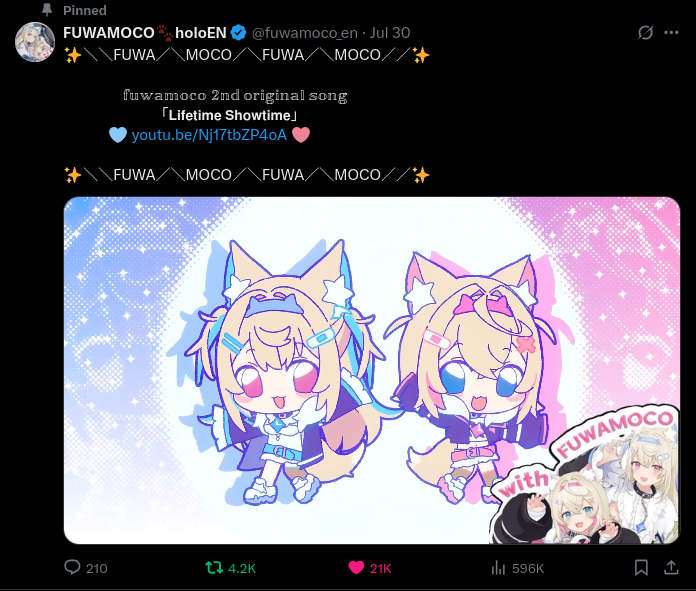
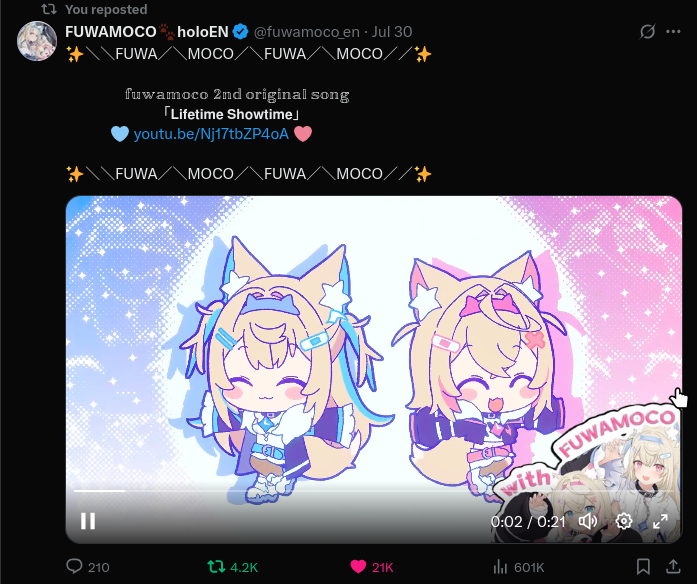
fix up and finish twitter support
- fixed overlay for images and videos on general tweets
- added overlay for the For You trending hero and images
- added overlay for profile banners
- X (formerly Twitter)

diff --git a/src/appliers/twitter.ts b/src/appliers/twitter.ts
@@ -2,13 +2,22 @@ import type { Settings } from "../config";
 import { appendImageWithStyles } from "../helpers";
 
 /**
- * Adds the With FUWAMOCO image to Twitter media.
+ * Adds the With FUWAMOCO image to Twitter/X media.
  * @description Currently wip, not perfect
  */
 export function addTwitter(settings: Partial<Settings["twitter"]>) {
   const imagesAndVideos = [
-    ...Array.from(document.querySelectorAll("img[src^='https://pbs.twimg.com/media']")), // images
-    ...Array.from(document.querySelectorAll("video[poster^='https://pbs.twimg.com/amplify_video_thumb']")), // videos
+    // general tweets
+    ...Array.from(document.querySelectorAll("article div[data-testid='tweetPhoto'] img")), // images
+    ...Array.from(document.querySelectorAll("article div[data-testid='videoComponent'] video")), // videos
+    ...Array.from(document.querySelectorAll("div[data-testid='swipe-to-dismiss'] img")), // fullscreen image
+
+    // For You page
+    ...Array.from(document.querySelectorAll("div[data-testid='eventHero'] img")), // image in hero
+    ...Array.from(document.querySelectorAll("div[data-testid='trend'] img")), // images in trends
+
+    // profile specific
+    ...Array.from(document.querySelectorAll("img[src^='https://pbs.twimg.com/profile_banners']")), // profile banners
   ];
 
   imagesAndVideos.forEach((media) => {
@@ -18,7 +27,7 @@ export function addTwitter(settings: Partial<Settings["twitter"]>) {
         return;
       }
 
-      const container = media.parentElement;
+      let container = media.parentElement;
 
       if (!container || !(container instanceof HTMLElement) || container.querySelector(".fwmc-twitter-overlay")) {
         // container is not found or already has an overlay image
@@ -29,16 +38,41 @@ export function addTwitter(settings: Partial<Settings["twitter"]>) {
       if (computedStyle.position === "static") {
         container.style.position = "relative";
       }
+      if (container.ariaLabel === "trend-image") {
+        // trend images are special since the img element itself extends to the full height of the image
+        // meanwhile the container is a max-height of 80px.
+        // this causes the image to be cut off at the bottom, or completely hidden
+        //
+        // to account for this, instead of trying to find that container div, since its up in the tree
+        // (and the css is a mess)
+        // we will just create a wrapper div that will contain the image
+        // this wrapper will have a fixed height of 80px
+        // and will be positioned relative to the container
+        const wrapperDiv = document.createElement("div");
+        wrapperDiv.style.position = "relative";
+        wrapperDiv.style.maxHeight = "80px";
+        wrapperDiv.style.height = "100%";
+        wrapperDiv.style.overflow = "hidden";
+        // we want this wrapper to be positioned at the top left of the container
+        // so that the overlay can be positioned at the bottom right
+        wrapperDiv.style.top = "0";
+        wrapperDiv.style.left = "0";
+        // add a class to the wrapper for preventing conflicts as well
+        wrapperDiv.classList.add("fwmc-twitter-overlay", "fwmc-twitter-overlay-trend");
+        container.appendChild(wrapperDiv);
+        container = wrapperDiv; // use the wrapper as the container
+      }
 
       appendImageWithStyles(container, {
         className: "fwmc-twitter-overlay",
         width: settings.width,
         height: settings.height,
-        childToInsertAfter: media,
+        childToInsertAfter: container.classList.contains("fwmc-twitter-overlay-trend") ? undefined : media,
+        zIndex: "0", // overlay has to be 0 or else video controls will be behind the image
       });
     }
     catch (error) {
-      console.error("[With FWMC] Error adding Twitter image:", error);
+      console.error("[With FWMC] Error adding Twitter/X image:", error);
     }
   });
 }

diff --git a/static/popup.html b/static/popup.html
@@ -146,7 +146,7 @@
     <div class="separator"></div>
 
     <h3>
-      Twitter
+      X (formerly Twitter)
     </h3>
 
     <ul>

diff --git a/docs/Supported-Modes.md b/docs/Supported-Modes.md
@@ -7,10 +7,9 @@ Below are the supported sites/modes you can enable, and what settings are availa
 - Supported Modes and Settings
   - [Global FWMC (bottom right)](#global-fwmc-bottom-right)
   - [YouTube Thumbnails](#youtube-thumbnails)
-  - [Twitter Media](#twitter-media)
+  - [Twitter/X Media](#twitterx-media)
   - [HTML Elements](#html-elements)
 - [Suggestions?](#suggestions)
-
 
 ## Global FWMC (bottom right)
 
@@ -39,13 +38,11 @@ YouTube Video | YouTube Shorts | YouTube Notification
 | Image Width | The width of the image. Must be a [valid CSS max-width](https://developer.mozilla.org/en-US/docs/Web/CSS/max-width). | `55%` |
 | Image Height | The height of the image. Must be a [valid CSS max-height](https://developer.mozilla.org/en-US/docs/Web/CSS/max-height). | `41%`
 
-## Twitter Media
-
-> Work-in-progress; expect buggy behavior!
+## Twitter/X Media
 
 Video | Image
 :-:|:-:
-<img src="./images/twitter-video.png" alt="Twitter Video"> | <img src="./images/twitter-image.png" alt="Twitter Image">
+<img src="./images/twitter-video.png" alt="Twitter/X Video"> | <img src="./images/twitter-image.png" alt="Twitter/X Image">
 
 | Setting | Description | Default |
 | --- | --- | --- |
